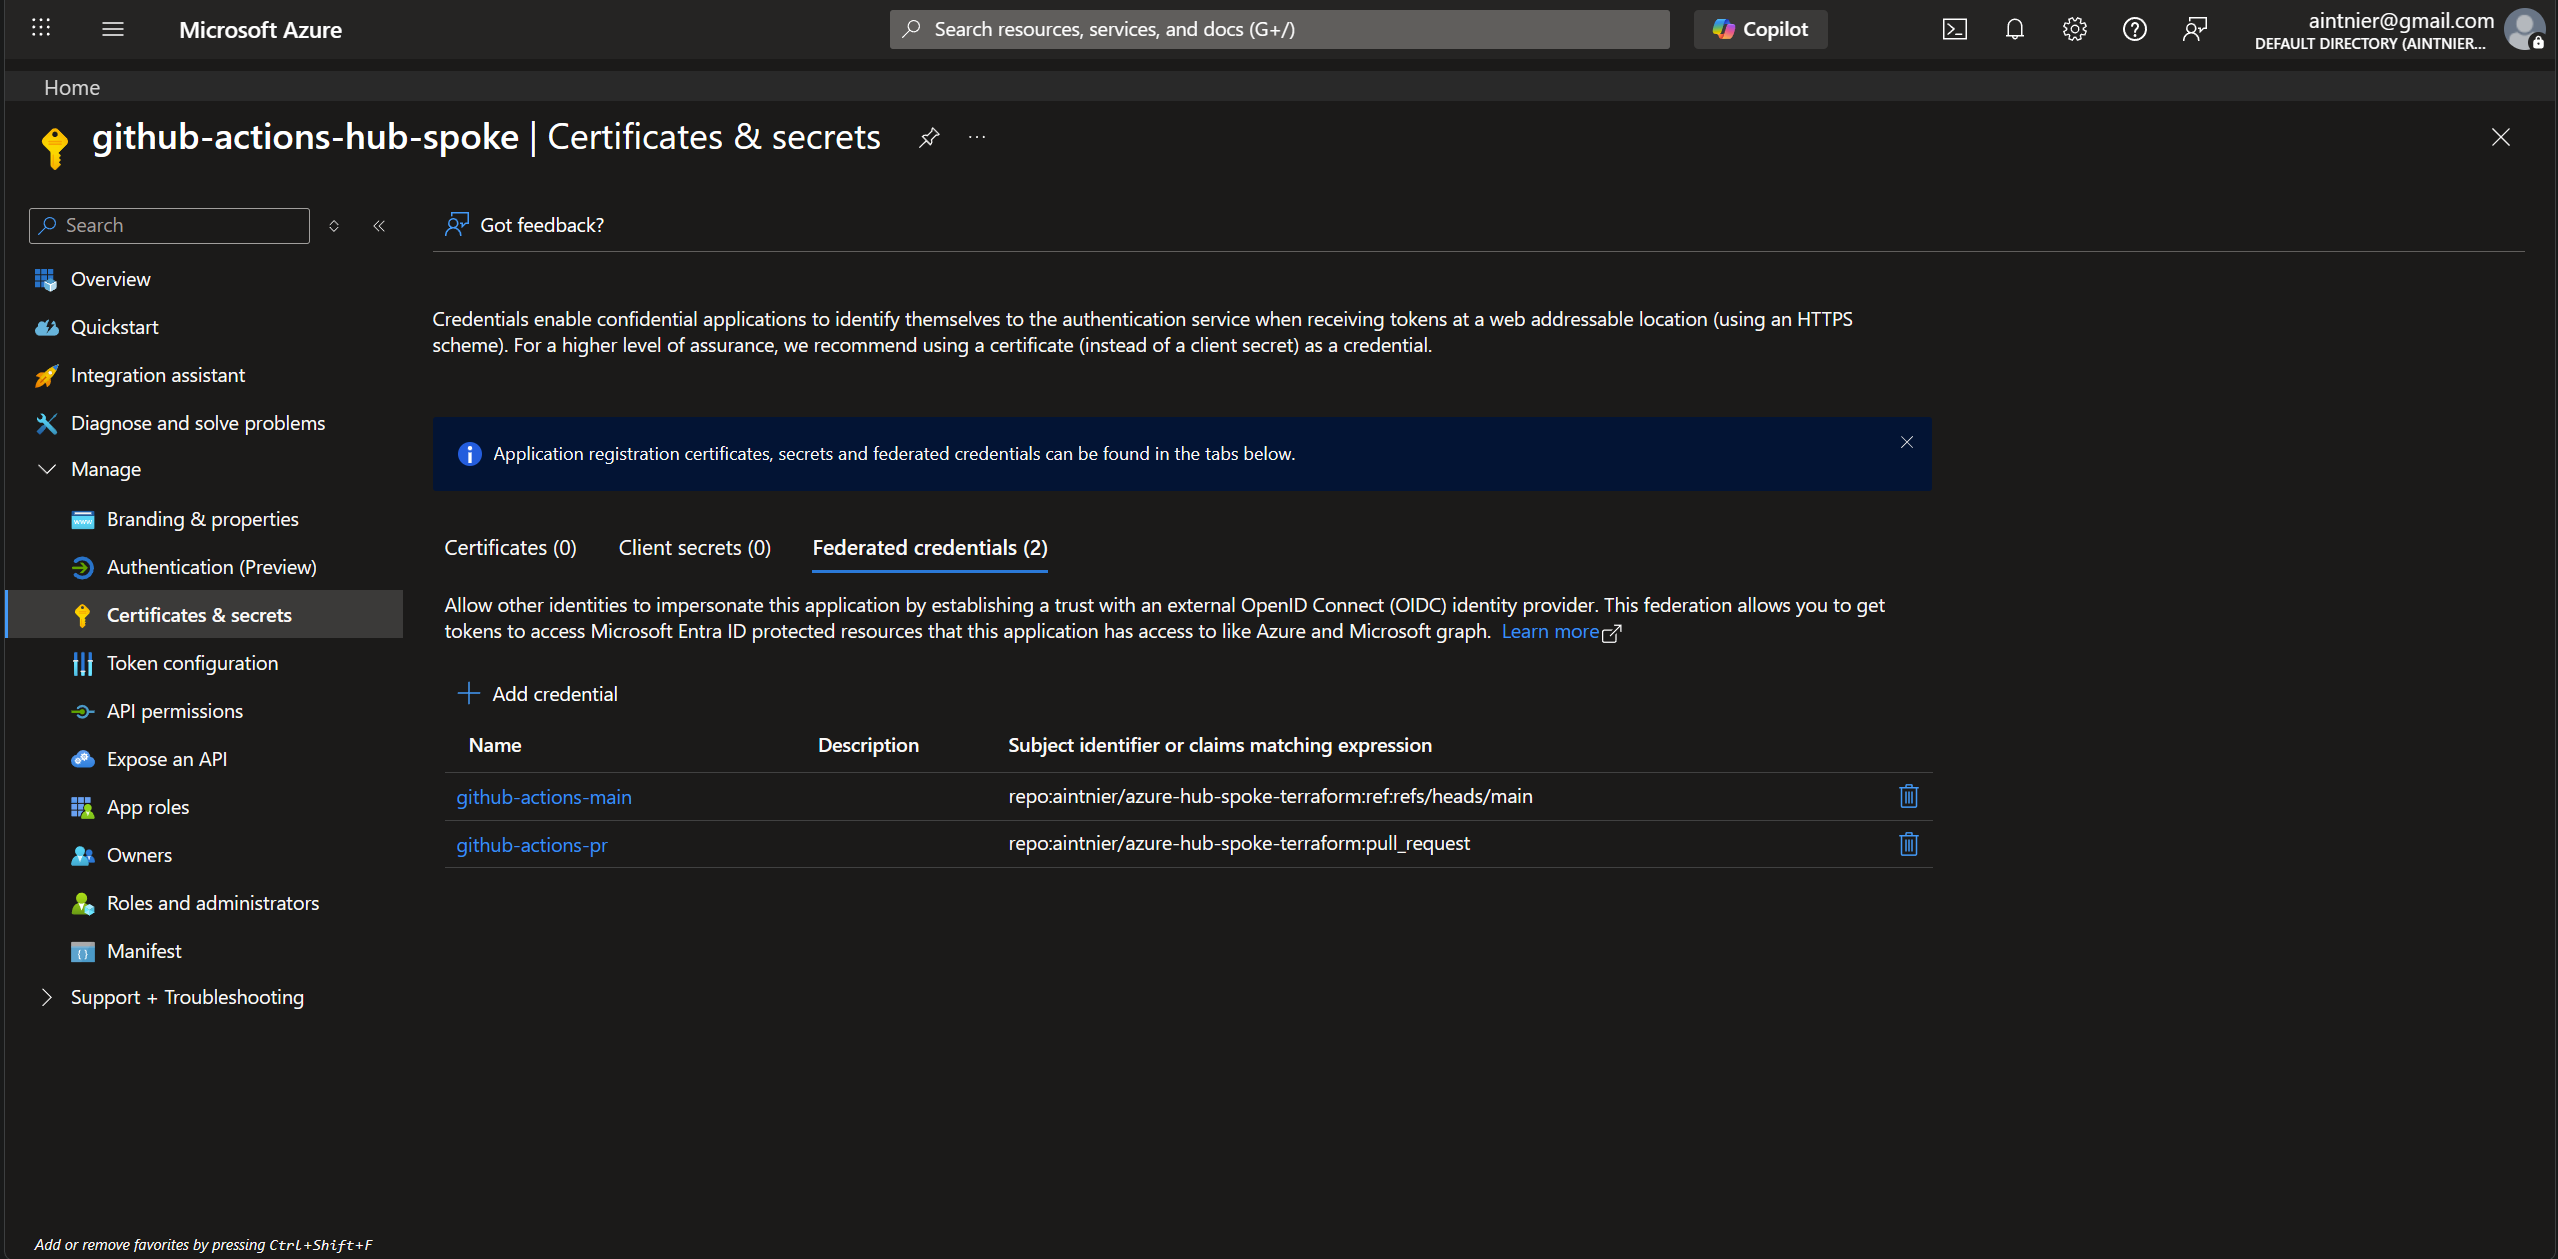
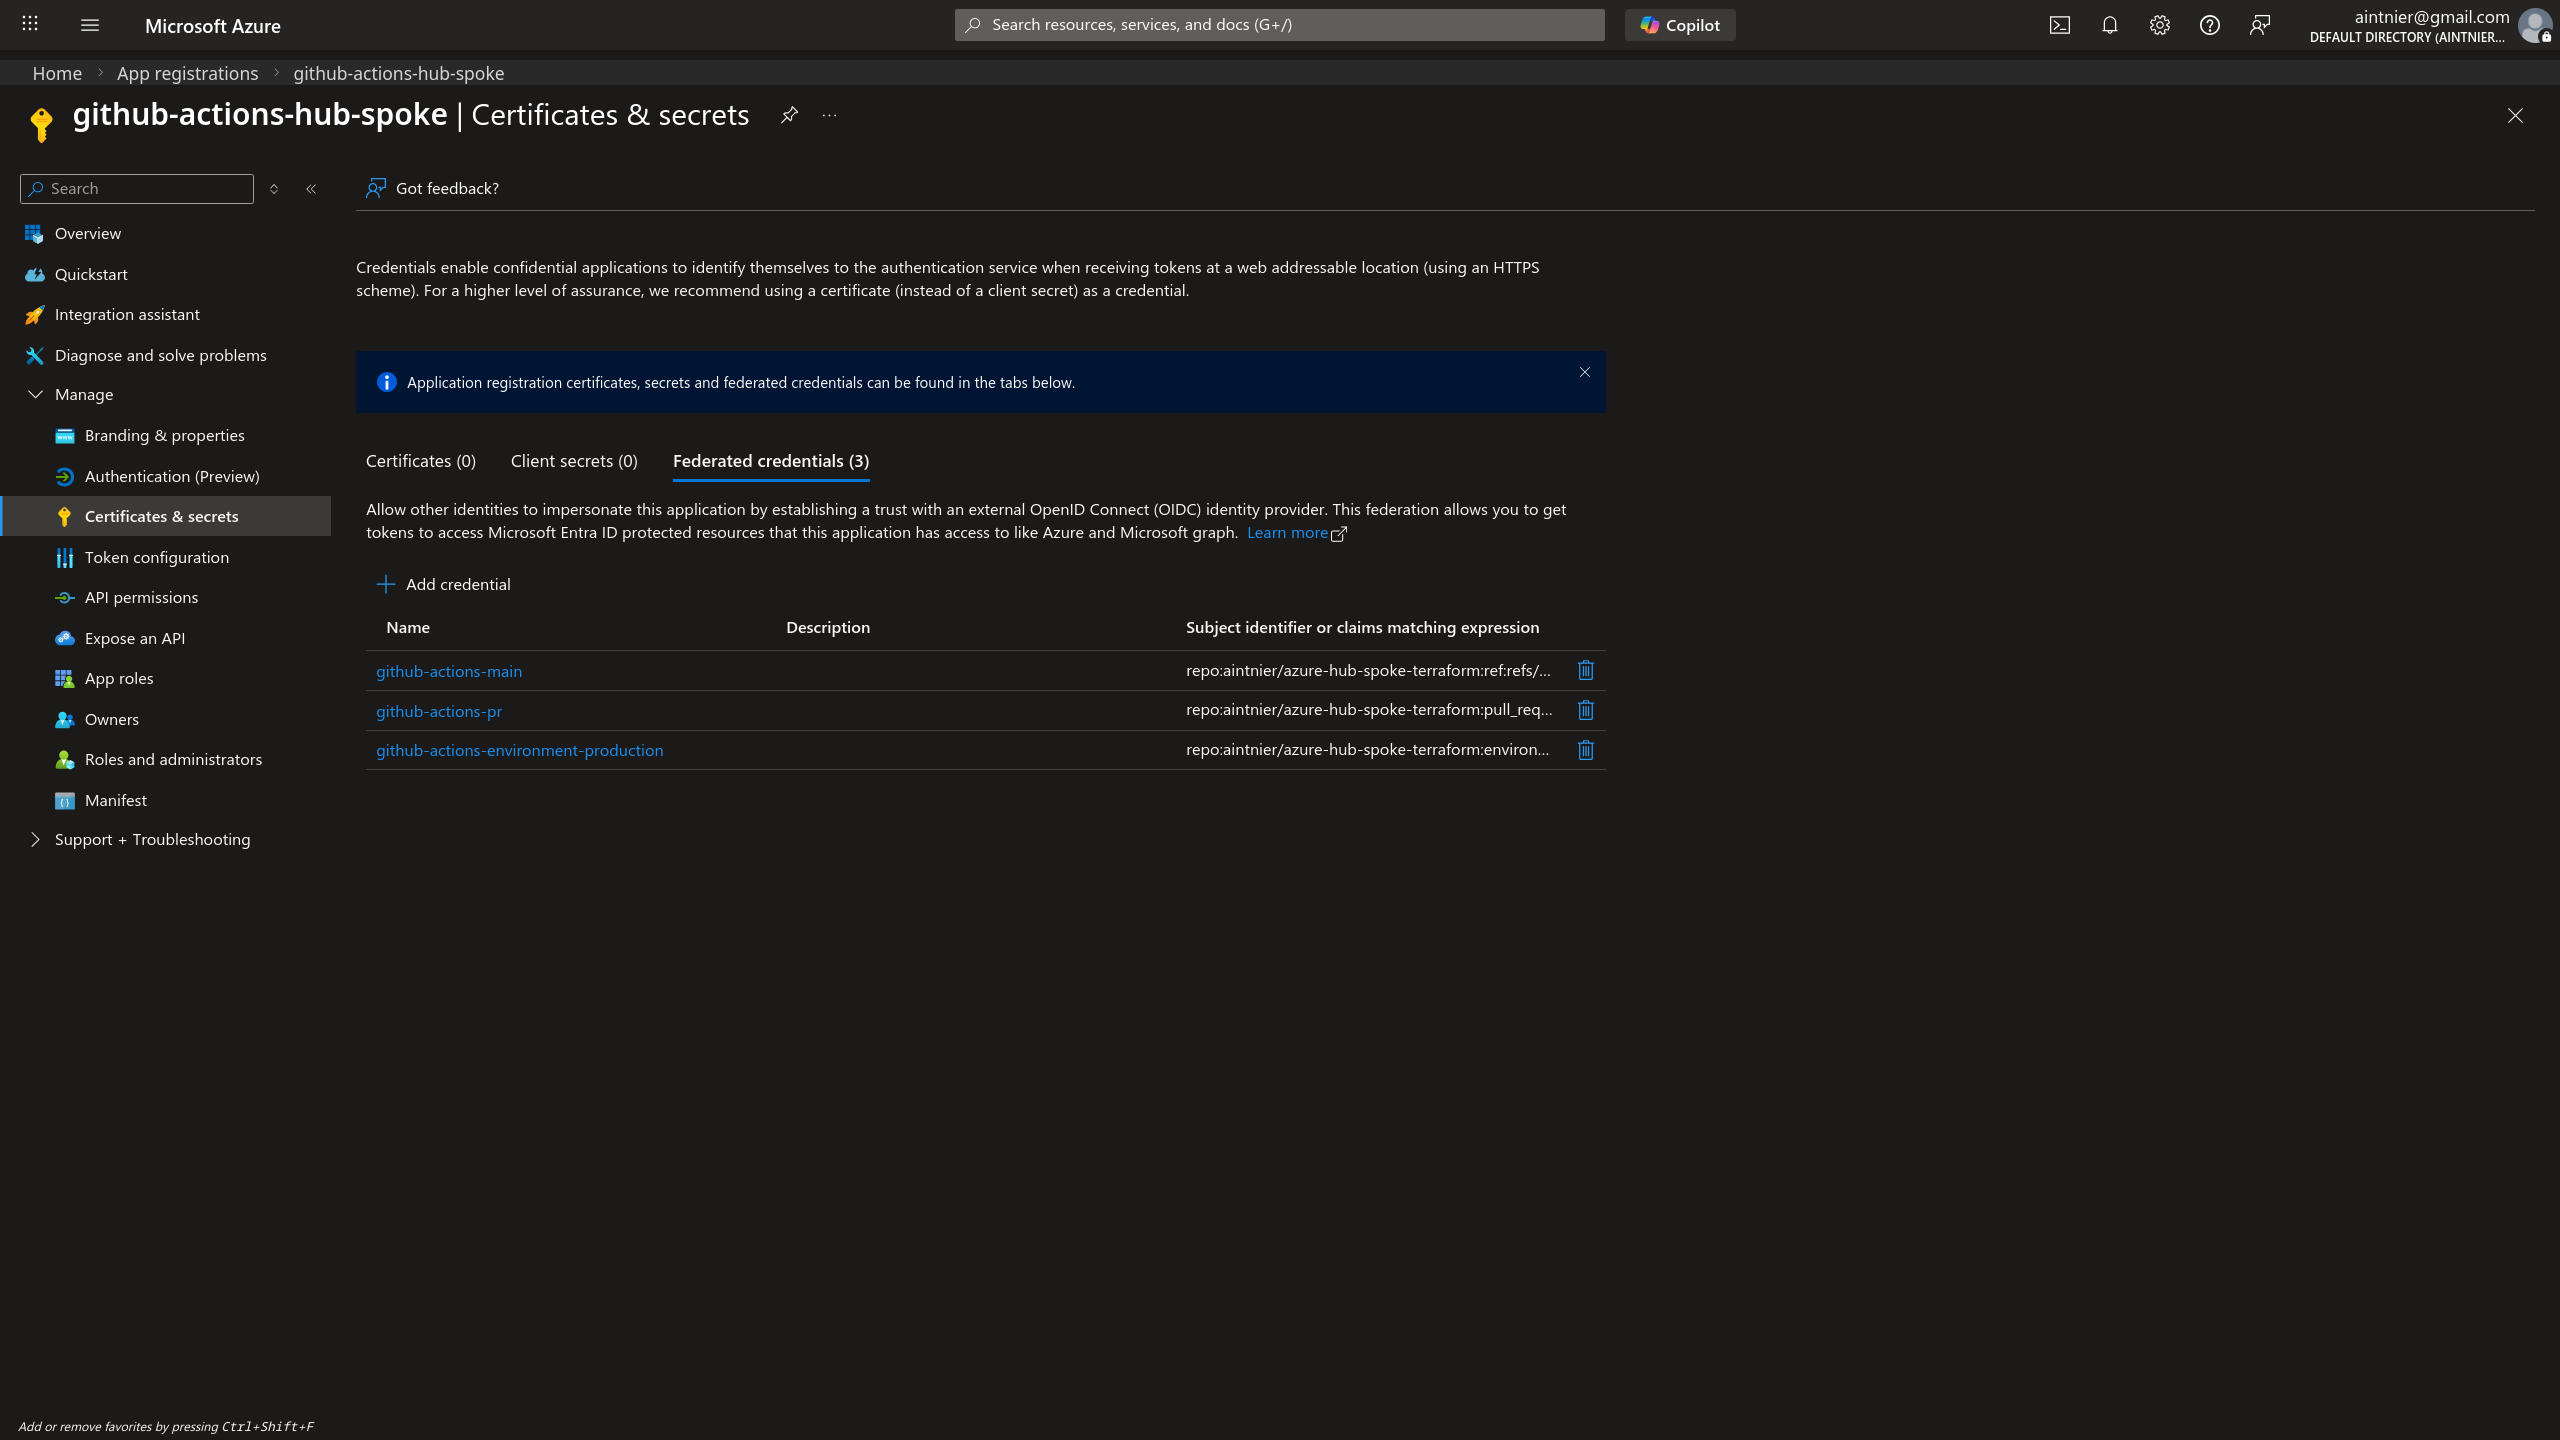
ci: fix missing ssh key in GH Actions runner

diff --git a/docs/lectures/terraform-ci-didactic-report.md b/docs/lectures/terraform-ci-didactic-report.md
@@ -1,0 +1,45 @@
+# Terraform CI/CD: Report Didattico ed Analisi concettuale
+
+Questo documento funge da ponte tra i concetti teorici esposti nei principali tutorial di Terraform (Infrastructure as Code, Declarative Syntax, State Management) e l'applicazione pratica nella nostra pipeline `ci.yml`.
+
+## 1. Il Paradigma di Terraform: "What" vs "How"
+Come spiegato in diversi tutorial (es. "How I Would Learn Terraform" e "Terraform in 15 mins"), Terraform non è uno script imperativo (come uno script Bash Python che esegue comandi sequenziali). È un linguaggio **dichiarativo**. 
+Tu descrivi *solo lo stato finale* che desideri (es. "Voglio un Azure Firewall e 2 Macchine Virtuali"). Terraform si occupa di capire *come* arrivarci (quali API chiamare, in che ordine, ecc). 
+
+**Come si adatta alla nostra CI (`ci.yml`):**
+La nostra pipeline CI non crea le risorse ad ogni esecuzione. Essendo dichiarativa, la CI serve solo a **validare** se "il modo in cui abbiamo descritto il mondo" è sintatticamente corretto e coerente col provider.
+
+## 2. Il Ciclo di Vita di Terraform (Core Workflow)
+I video evidenziano sempre le 3 fasi fondamentali: `Init`, `Plan`, `Apply`. Nella nostra pipeline CI (`ci.yml`) usiamo parte di questo ciclo di vita per fare controlli automatizzati di qualità prima del rilascio (Shift-Left validation).
+
+### A. Initialization (`terraform init -backend=false`)
+- **Teoria**: Terraform non conosce nativamente Azure o AWS. È "nudo". Il comando `init` legge i file `.tf` per scaricare i "Provider plugins" necessari (nel nostro caso l'eseguibile `azurerm` che sa parlare con Azure). Inoltre inizializza la gestione dello "*State*".
+- **Pratica nella nostra CI**: Nella CI eseguiamo `init -backend=false`. Questo è un trucco da professionisti: essendo un test "a vuoto", diciamo a Terraform di scaricare solo il provider AzureRM locale per testare il codice, senza provare a scaricare il file di stato dallo Storage Account (risparmiando tempo, autenticazioni e risorse).
+
+### B. Mantenimento e Qualità del Codice (`terraform fmt` e `validate`)
+- **Teoria**: Nei progetti aziendali lavorano molte persone. Terraform offre tool nativi per standardizzare il codice. `fmt` (Format) riallinea spazi, tabs e indentazioni. `validate` controlla che non ci siano errori di sintassi (es. una variabile richiamata che non esiste o un blocco non chiuso).
+- **Pratica nella nostra CI**: Lo step `terraform fmt -check -recursive` controlla la formattazione. Se fallisce, Github Actions blocca la Pull Request. Questo assicura che il codice main sia sempre pulito. Il `terraform validate` chiude il cerchio garantendo che la sintassi HCL sia formalmente corretta.
+
+### C. La Pianificazione (`terraform plan`)
+- **Teoria**: È forse il comando più potente. Legge il "Desire State" (il tuo codice `.tf`), legge l'"Actual State" (dal cloud o dal file tfstate), calcola la differenza (*diff*), e annuncia cosa *creerà, modificherà o distruggerà*.
+- **Pratica nella nostra CI**: Nel nostro file `ci.yml`, il `plan` è condizionato (`if: github.event_name == 'pull_request'`). Viene lanciato solo quando un collega chiede di unire del nuovo codice nel `main`. Questo genererà un report nei log mostrando l'impatto distruttivo/costruttivo, prima ancora di arrivare in produzione!
+
+## 3. Perché la Matrix Strategy?
+Nel nostro `ci.yml` abbiamo tre cartelle: `layer1-manual-peering`, `layer2-avnm`, `layer3-vwan`.
+Invece di copiare e incollare il codice 3 volte, GitHub Actions usa il pattern:
+```yaml
+strategy:
+  matrix:
+    layer: [layer1-manual-peering, layer2-avnm, layer3-vwan]
+```
+Questo crea **3 runner Ubuntu temporanei paralleli**, ognuno entra in una delle 3 cartelle e fa `fmt`, `init`, `validate` in totale isolamento. Questo è un modo elegante per gestire l'architettura a micro-state (ogni layer è indipendente) senza raddoppiare i tempi della CI.
+
+## 4. OIDC e Zero-Trust Security
+I video spesso saltano questo punto perché mostrano come testare in locale (passando le chiavi segrete via terminale). Nella nostra CI, usiamo:
+```yaml
+uses: azure/login@v2
+```
+Insieme alle variabili `ARM_USE_OIDC: true`. Questo permette a GitHub di dialogare con Entra ID senza usare password statiche a rischio di compromissione, ma con dei token crittografici a durata di 1 ora generati sul momento!
+
+## Conclusione
+La pipeline CI che abbiamo non fa deploy (quello lo fa la CD `deploy-layer1.yml`). La sua unica funzione è costruire una "rete di sicurezza", testando il codice in modo isolato tramite `fmt`, `init` (spogliato dal backend) e `validate`, garantendo che solo codice verificato grammaticalmente veda mai i server Azure.

diff --git a/README.md b/README.md
@@ -54,7 +54,7 @@ Before deploying the progressive network layers, a robust, enterprise-grade Azur
 ### 1. Zero-Trust Authentication (OIDC)
 Instead of relying on legacy, long-lived client secrets, this project exclusively uses **OpenID Connect (OIDC)** for GitHub Actions to authenticate to Azure.
 - An Entra ID App Registration (`github-actions-hub-spoke`) was created with a Service Principal assigned the **Contributor** role.
-- Federated credentials were created for both the `main` branch (for CD Deployments) and `pull_request` events (for CI validation).
+- Federated credentials were created for the `main` branch, `pull_request` events (for CI validation), and the `production` environment (for actual deployments).
 
 ```bash
 # Creating the App Registration and assigning Subscription Contributor role
@@ -66,6 +66,11 @@ az role assignment create --assignee <SP_ID> --role Contributor --scope /subscri
 az ad app federated-credential create \
   --id <APP_ID> \
   --parameters '{"name":"github-actions-main","issuer":"https://token.actions.githubusercontent.com","subject":"repo:aintnier/azure-hub-spoke-terraform:ref:refs/heads/main","audiences":["api://AzureADTokenExchange"]}'
+
+# Generating the zero-trust OIDC Federated Credential for the production environment
+az ad app federated-credential create \
+  --id <APP_ID> \
+  --parameters '{"name":"github-actions-environment-production","issuer":"https://token.actions.githubusercontent.com","subject":"repo:aintnier/azure-hub-spoke-terraform:environment:production","audiences":["api://AzureADTokenExchange"]}'
 ```
 
 ![App Registration](docs/imgs/setup/01-app-registration-overview.png)
